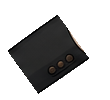
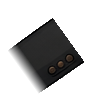
Lincoln's arms: clean elbows on the rail, the fist's cuff over the forearm
The forearm's square cut at the elbow was redrawn over the table rail
as a dark block beside each elbow. The elbows now sit 12px higher (so
the cut ends lie under the coat's sleeves, above the rail) and the cut
fades in (tune elbow_fade). The rail runs unbroken under both arms.

During the check the fist's own stub of sleeve sat on the forearm as a
second sleeve end with buttons (now trimmed behind its cuff,
hand_extras trim_stub), and as the wrist turned, a corner of the
forearm's square end poked out past the cuff (the forearm now ends
10px short, under the cuff: tune wrist_back).

Claude-Session: https://claude.ai/code/session_01XVyyQGg3Db8jrrcW1ZjGyp

Changed region(s): [[0.0545, 0.45, 0.4364, 0.96], [0.4636, 0.15, 0.8182, 0.63]]

diff --git a/art-tools/seat_puppet.py b/art-tools/seat_puppet.py
@@ -73,7 +73,8 @@ The spec (all piece numbers are from the character's parts.json):
                     mouth
   hand_extras       {"near": [{"name", "file", "scale", "turn"}], "far": [...]}:
                     hands from other sheets, each placed with its own cuff on
-                    the wrist, pointing the resting hand's way (plus turn, deg)
+                    the wrist, pointing the resting hand's way (plus turn, deg);
+                    "trim_stub": true cuts its stub of sleeve off behind the cuff
   runtime           where to write the runtime rig for web/puppet/ (rig.json
                     and its images), relative to art-tools/
   tune              scales and offsets; see DEFAULTS
@@ -96,6 +97,8 @@ DEFAULTS = dict(
     nr=20, nhr=25, fr=28, fhr=32,            # near / far forearm and hand rotations (degrees)
     hsx=0, hsy=0,                            # nudge both hands along their cuffs
     sleeve=30,                               # "pose": "rim": how far in from each elbow the sleeves reach
+    wrist_back=0,                            # "cuff": "tube": end the forearm this many px short, under the hand's cuff
+    elbow_fade=0,                            # "cuff": "tube": fade the forearm in over this many px from its elbow cut
 )
 
 
@@ -134,7 +137,7 @@ def trim_sleeve(src, dst, mode):
     return float(sx.mean()), float(sy.mean())
 
 
-def trim_tube(src, dst):
+def trim_tube(src, dst, fade=0, back=0):
     """For a forearm drawn as a plain tube, open at the elbow and with a white
     cuff at the wrist: cut it straight across, square to its length, at the
     start of the cuff and at the end of the opening, so the hand's own cuff
@@ -156,7 +159,11 @@ def trim_tube(src, dst):
     lo = np.percentile(t[inside], 98) + 1 if inside.any() else t[A].min()
     keep = A & (t > lo) & (t < hi)
     out = a.copy()
-    out[..., 3] = np.where(biggest(keep), a[..., 3], 0)
+    # end the tube `back` short of the cuff (the wrist point stays where the
+    # cuff began): a hand's cuff then covers it even with the wrist turned
+    out[..., 3] = np.where(biggest(keep) & (t < hi - back), a[..., 3], 0)
+    if fade:                                                 # a soft elbow end, under the coat's sleeve
+        out[..., 3] = (out[..., 3] * np.clip((t - lo) / fade, 0, 1)).astype(np.uint8)
     Image.fromarray(out, 'RGBA').save(dst)
     end = lambda e: (float(gx[keep & (abs(t - e) < 4)].mean()), float(gy[keep & (abs(t - e) < 4)].mean()))
     return end(hi), end(lo)
@@ -305,6 +312,27 @@ def trim_clothes(src, dst, mode=True, below=0.6):
     Image.fromarray(out, 'RGBA').save(dst)
 
 
+def trim_stub(src, dst, keep=0):
+    """Cut a hand's stub of sleeve off behind its cuff, straight across: on a
+    forearm, the stub's rounded end and buttons read as a second sleeve."""
+    a = np.array(Image.open(src).convert('RGBA'))
+    rgb, A = a[..., :3].astype(int), a[..., 3] > 128
+    cuff = biggest(A & (rgb.min(-1) > 180) & (np.ptp(rgb, axis=-1) < 55))
+    skin = A & (rgb[..., 0] > 150) & (rgb[..., 0] - rgb[..., 2] > 60)
+    ys, xs = np.nonzero(cuff)
+    c = np.array([xs.mean(), ys.mean()])
+    sy, sx = np.nonzero(skin)
+    u = c - np.array([sx.mean(), sy.mean()])
+    u /= np.linalg.norm(u)                                  # from the hand toward the sleeve
+    gy, gx = np.mgrid[:A.shape[0], :A.shape[1]]
+    t = (gx - c[0]) * u[0] + (gy - c[1]) * u[1]
+    end = np.percentile(t[cuff], 90) + keep
+    out = a.copy()
+    out[..., 3] = np.where(t > end, 0, a[..., 3])
+    out[..., 3] = np.where(biggest(out[..., 3] > 0), out[..., 3], 0)
+    Image.fromarray(out, 'RGBA').save(dst)
+
+
 def hand_anchor(path, mode):
     """Where a hand's own cuff is, in its image."""
     a = np.array(Image.open(path).convert('RGBA'))
@@ -332,6 +360,10 @@ def clip_baked(src, p):
         cut = (p['clip_top'] - p['y']) / s
         rows = np.arange(im.height)[:, None]
         keep = keep * np.clip((rows - cut + 1) / (fe + 1), 0, 1)
+    if 'clip_bottom' in p:
+        cut = (p['clip_bottom'] - p['y']) / s
+        rows = np.arange(im.height)[:, None]
+        keep = keep * np.clip((cut - rows + 1) / (fe + 1), 0, 1)
     if 'clip_cols' in p:
         cols = np.zeros(im.width)
         for x0, x1 in p['clip_cols']:
@@ -361,7 +393,7 @@ def export_runtime(spec, parts, rt, bones, face, out_dir, F, path):
         while img in used:
             img, n = f"{stem}_{n}.png", n + 1
         used.add(img)
-        if 'clip_top' in p or 'clip_cols' in p:
+        if 'clip_top' in p or 'clip_cols' in p or 'clip_bottom' in p:
             clip_baked(path(p['file']), p).save(os.path.join(out_dir, img))
         else:
             shutil.copyfile(path(p['file']), os.path.join(out_dir, img))
@@ -514,7 +546,7 @@ def main(spec_path):
         sl = f"{spec['id']}_parts/{spec['id']}_rig/sleeve_{ai}.png"
         mode = spec.get('cuff', 'white')
         if mode == 'tube':
-            at, elbow = trim_tube(path(F(ai)), path(sl))
+            at, elbow = trim_tube(path(F(ai)), path(sl), t['elbow_fade'] / t['ka'], t['wrist_back'] / t['ka'])
         else:
             at = trim_sleeve(path(F(ai)), path(sl), mode)
             if spec.get('elbow_cap'):
@@ -542,6 +574,10 @@ def main(spec_path):
         # other hands for this arm (other sheets): each has its own cuff placed on
         # the wrist, pointing the way the resting hand points (plus its own turn)
         for e in spec.get('hand_extras', {}).get(side, []):
+            if e.get('trim_stub'):
+                f = f"{spec['id']}_parts/{spec['id']}_rig/hand_{e['name']}.png"
+                trim_stub(path(e['file']), path(f))
+                e = dict(e, file=f)
             ea = hand_anchor(path(e['file']), 'cream')
             er = (hand_dir + e.get('turn', 0)) - native_angle(path(e['file']), ea, flip) if aim else hr
             ek = t['kha'] * e.get('scale', 1)

diff --git a/art-tools/build_puppet.py b/art-tools/build_puppet.py
@@ -25,6 +25,7 @@ by the table below that line.
 once whole and once clipped above the head, lets a cape's collar and shoulders
 wrap over the bottom of a hood without the collar covering the face.
 "clip_feather": n fades it in over n pixels below that line, so no hard edge.
+"clip_bottom": y draws a part only above canvas line y (faded by "clip_feather").
 "clip_cols": [[x0, x1], ...] draws a part only between those canvas columns
 (softened by "clip_feather" too):
 a torso listed again over the forearms, kept only at its sides, puts its
@@ -81,6 +82,14 @@ def cmd_render(args):
             continue
         if "clip_top" in p:
             im = clip_above(im, int(p["clip_top"]) - int(p["y"]), int(p.get("clip_feather", 0)))
+        if "clip_bottom" in p:
+            cut = int(p["clip_bottom"]) - int(p["y"])
+            fe = int(p.get("clip_feather", 0))
+            ramp = Image.new("L", im.size, 0)
+            for y in range(im.height):
+                ramp.paste(255 if y < cut - fe else max(0, int(255 * (cut - y) / (fe + 1))), (0, y, im.width, y + 1))
+            im = im.copy()
+            im.putalpha(ImageChops.multiply(im.getchannel("A"), ramp))
         if "clip_cols" in p:
             keep = Image.new("L", im.size, 0)
             for x0, x1 in p["clip_cols"]:
